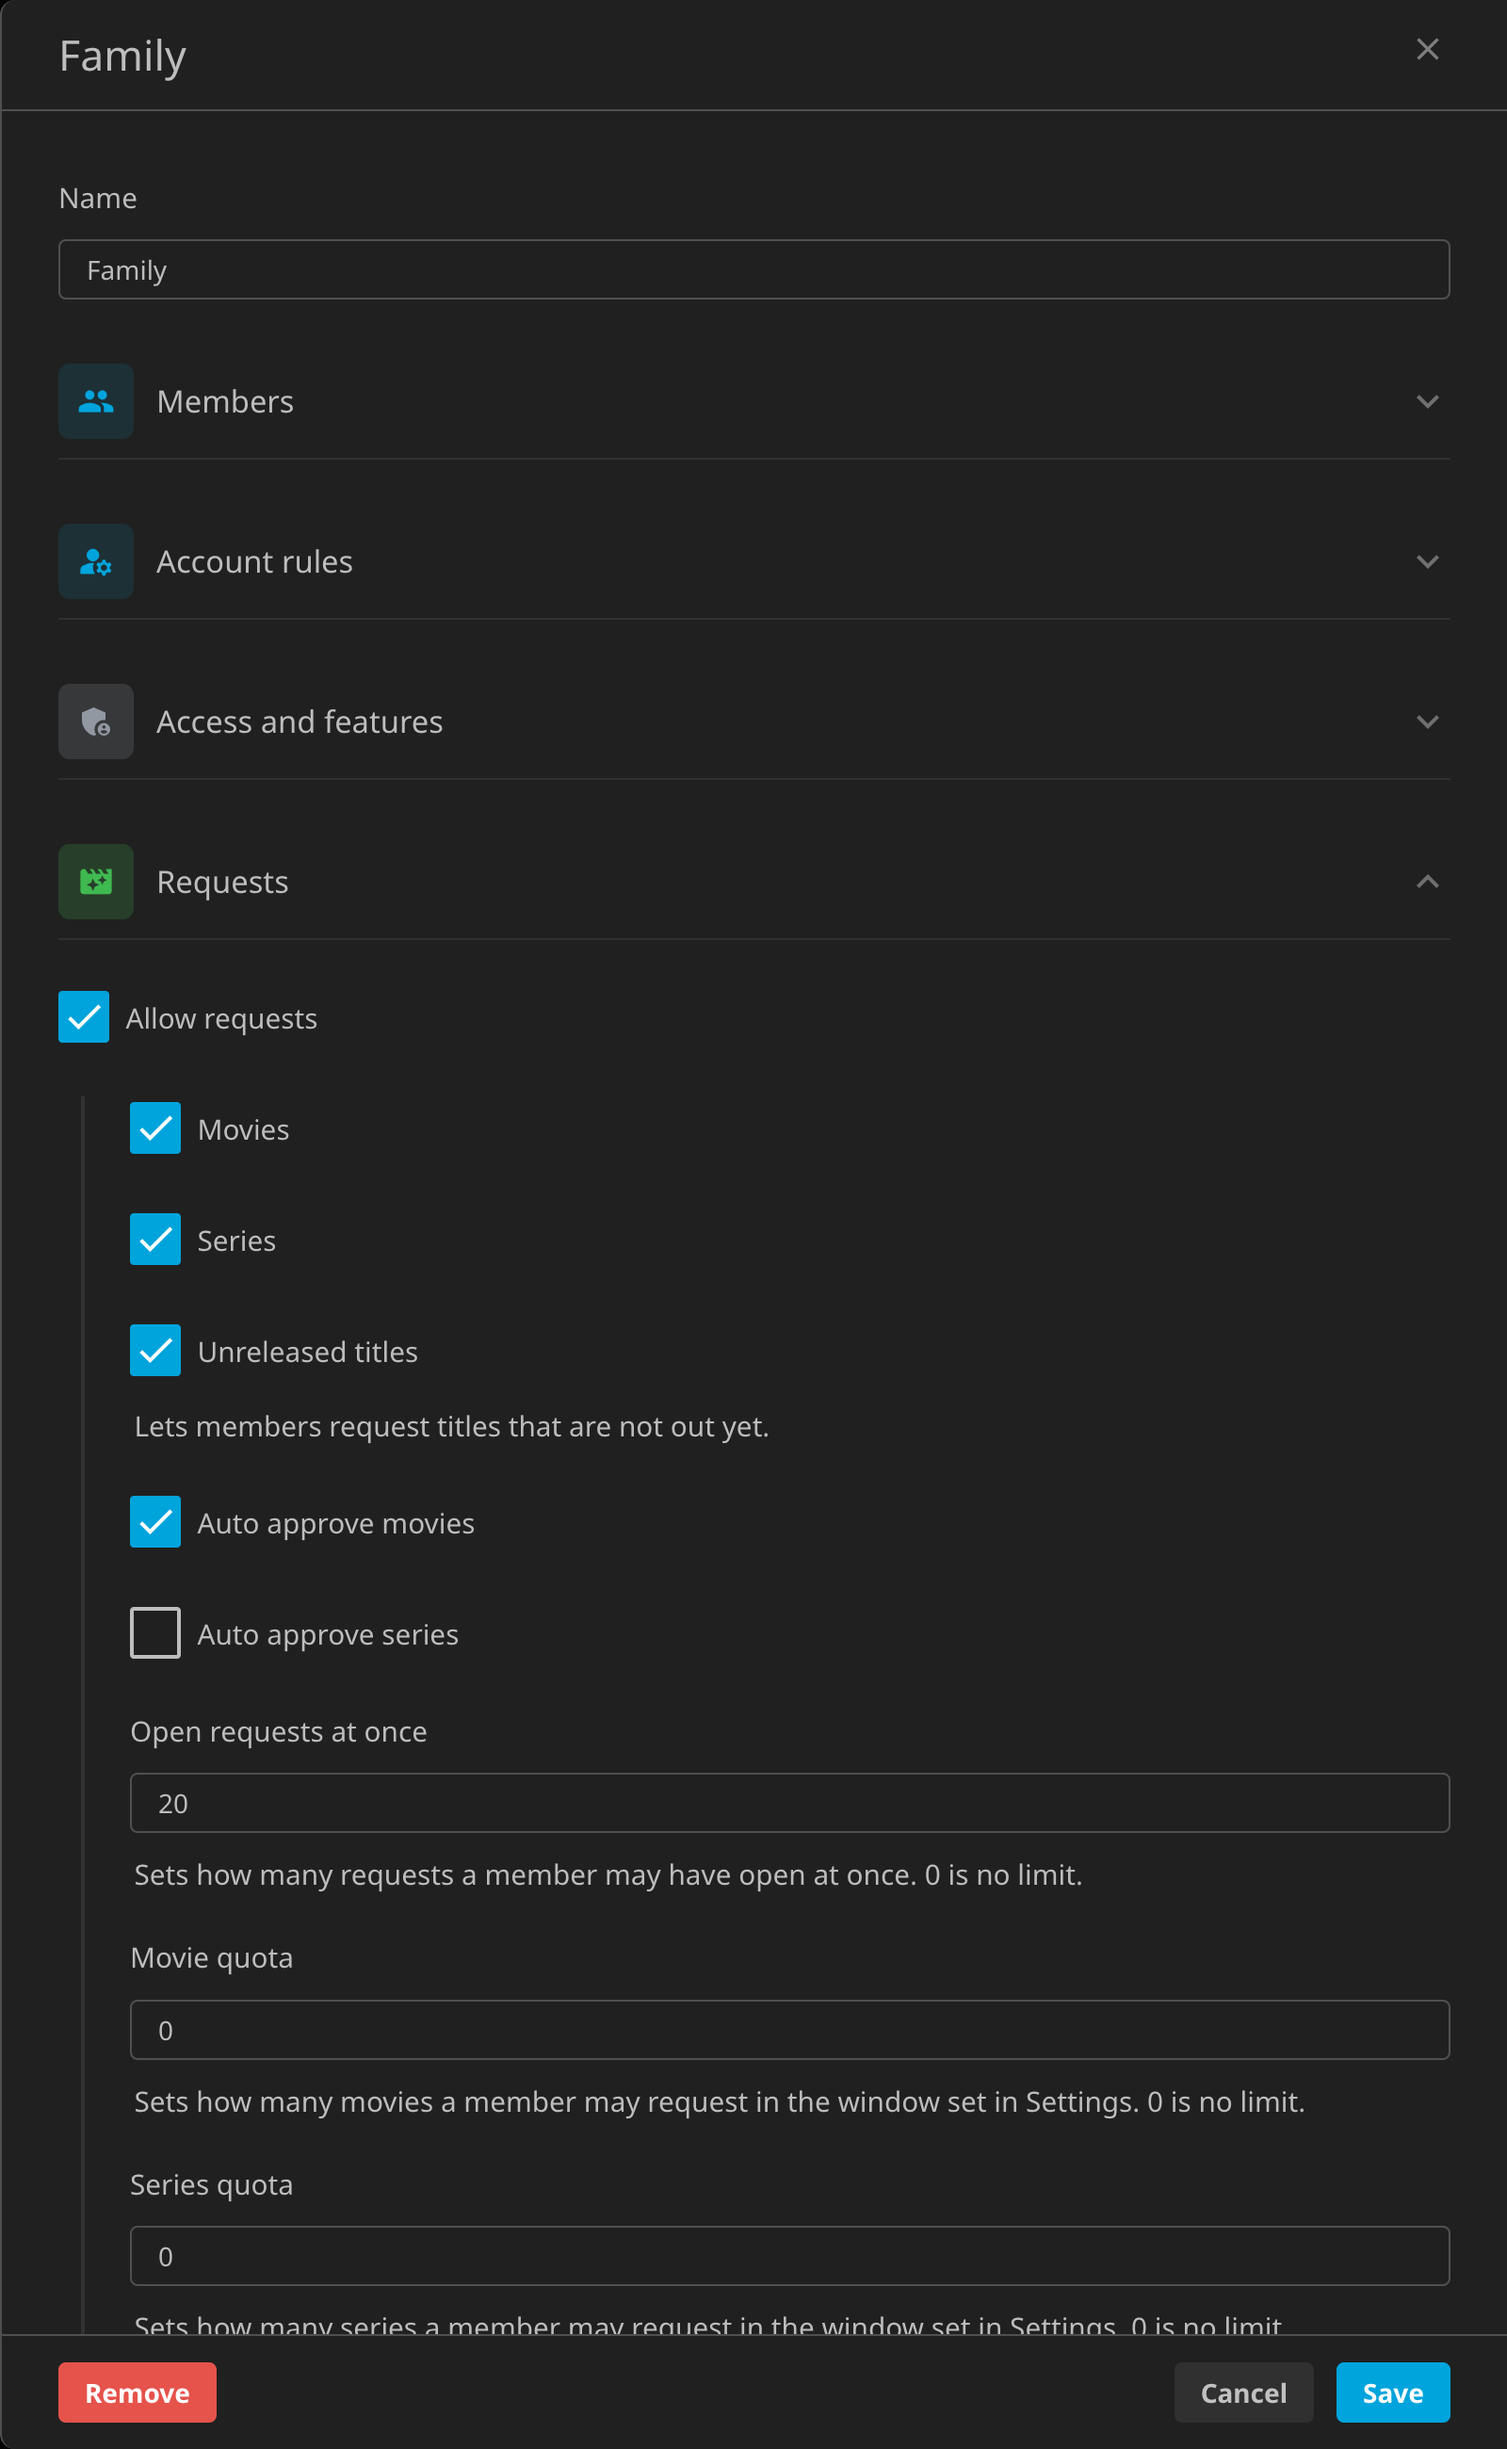
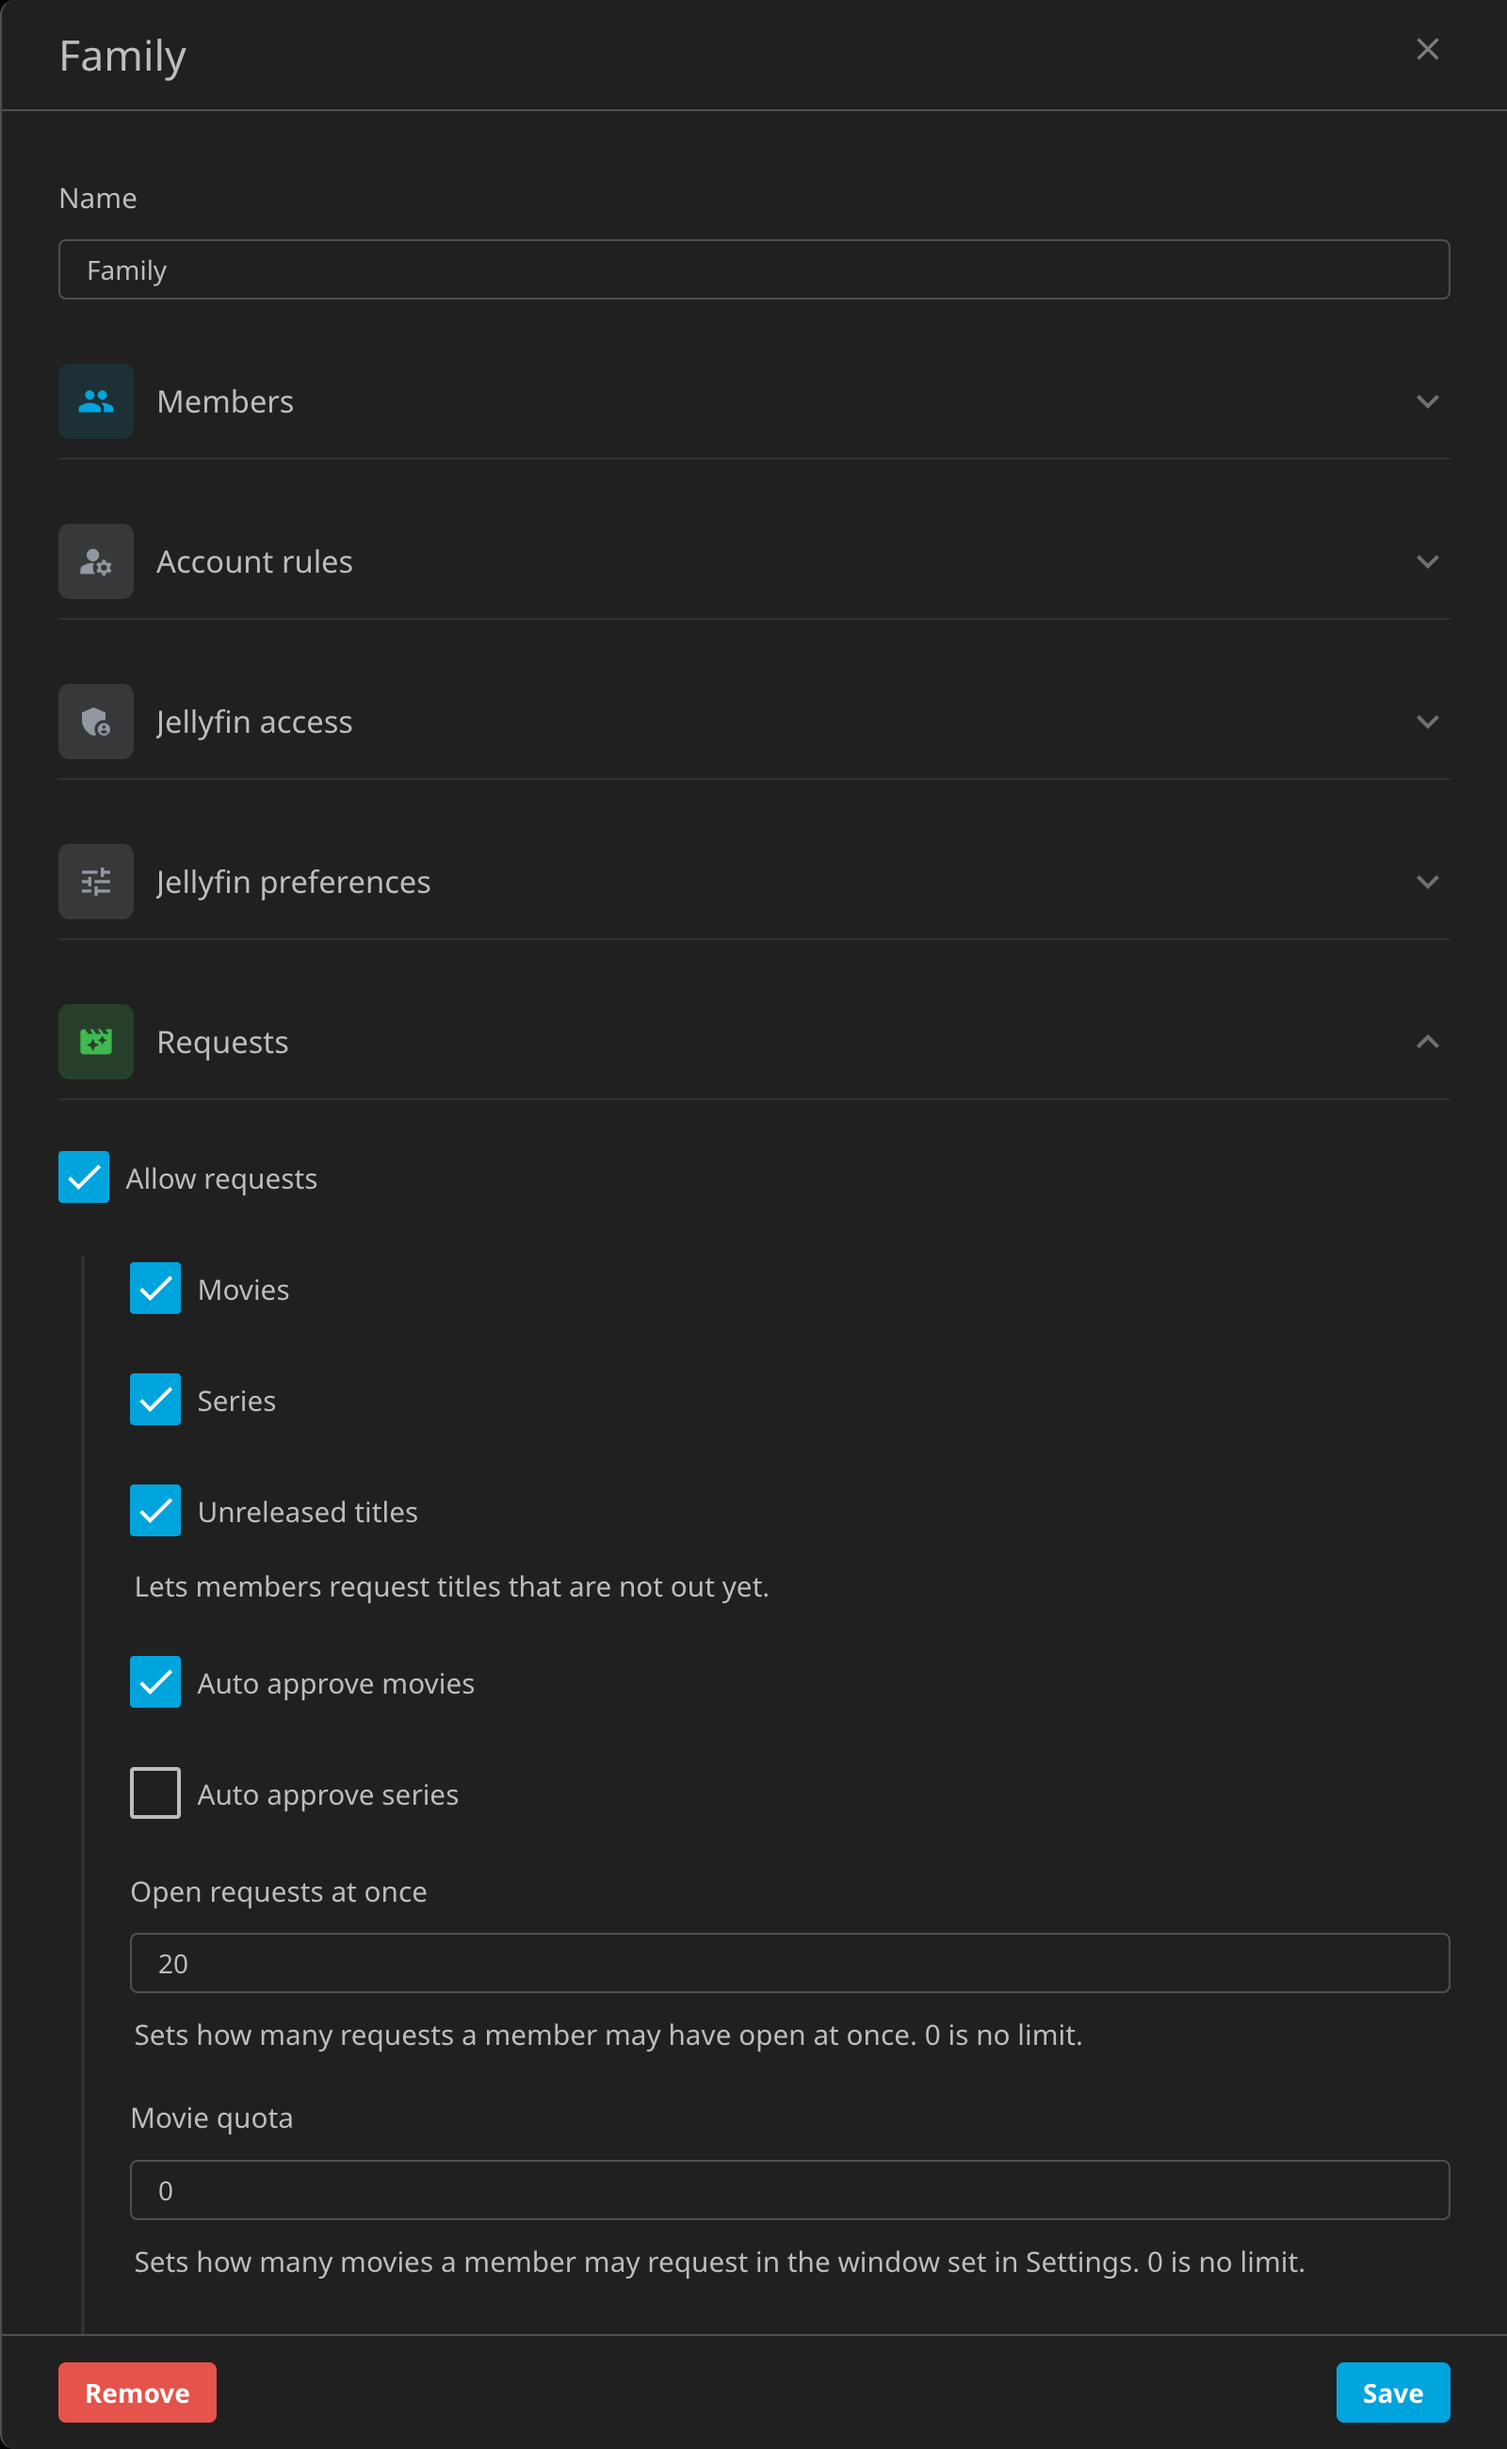
group screenshots and comment tidy

diff --git a/Jellyfin.Plugin.Necto/Web/necto_groups.js b/Jellyfin.Plugin.Necto/Web/necto_groups.js
@@ -1,6 +1,7 @@
 // necto_groups.js
 // The Groups tool. It lists the groups, Everyone first, and opens each in an editor sidecar with its name, its
-// members, and a collapsible section of permissions per tool, with Remove, Cancel, and Save on the shelf.
+// members, its account rules, its Jellyfin access and preferences, and a collapsible section per tool, with Remove
+// and Save on the shelf.
 
 import * as nectoModule from './configurationpage?name=necto_shared.js';
 import * as nectoTemplates from './configurationpage?name=necto_groups_templates.js';

diff --git a/Jellyfin.Plugin.Necto/Services/Policies/PolicyTemplateMerger.cs b/Jellyfin.Plugin.Necto/Services/Policies/PolicyTemplateMerger.cs
@@ -8,8 +8,8 @@ using Siphonophore.Stolon;
 namespace Jellyfin.Plugin.Necto.Services.Policies;
 
 /// <summary>
-/// Works out the Jellyfin settings a user takes. Each row comes from the first of the user's groups, in group order,
-/// that sets it, and a row no group sets is left to the user. A user in no group takes Everyone's.
+/// Works out the Jellyfin settings a user takes from their one group. A row the group does not set is left to the
+/// user, and a user in no group takes Everyone's.
 /// </summary>
 public static class PolicyTemplateMerger
 {

diff --git a/Jellyfin.Plugin.Necto/Services/Policies/PolicyTemplateRows.cs b/Jellyfin.Plugin.Necto/Services/Policies/PolicyTemplateRows.cs
@@ -46,7 +46,7 @@ public static class PolicyTemplateRows
     /// Builds one template from several, taking each row from the first template that sets it, and the preferences mode
     /// from the first.
     /// </summary>
-    /// <param name="templates">The templates, in group order.</param>
+    /// <param name="templates">The templates, the one that wins first.</param>
     /// <returns>A new template with every row some template sets.</returns>
     public static PolicyTemplate Merge(IEnumerable<PolicyTemplate> templates)
     {

diff --git a/Jellyfin.Plugin.Necto/Services/Groups/GroupNormalizer.cs b/Jellyfin.Plugin.Necto/Services/Groups/GroupNormalizer.cs
@@ -74,7 +74,7 @@ public static class GroupNormalizer
             group.MemberIds.RemoveAll(id => admins.Contains(id) || (known is not null && !known.Contains(id)));
         }
 
-        // A user is in one group at most. A stored user in several keeps the first in group order.
+        // A user is in one group at most. A stored user in several keeps the first in the list.
         var placed = new Dictionary<Guid, Group>();
         foreach (var group in config.Groups)
         {

diff --git a/Jellyfin.Plugin.Necto/Configuration/Groups/Group.cs b/Jellyfin.Plugin.Necto/Configuration/Groups/Group.cs
@@ -4,7 +4,7 @@ using System.Collections.Generic;
 namespace Jellyfin.Plugin.Necto.Configuration.Groups;
 
 /// <summary>
-/// A named set of Jellyfin users and the permissions they share. A user may be in several groups, and a user in none
+/// A named set of Jellyfin users and the permissions they share. A user is in one group at most, and a user in none
 /// takes the Everyone group.
 /// </summary>
 public class Group

diff --git a/Jellyfin.Plugin.Necto/Configuration/Policies/PolicyTemplate.cs b/Jellyfin.Plugin.Necto/Configuration/Policies/PolicyTemplate.cs
@@ -2,7 +2,7 @@ namespace Jellyfin.Plugin.Necto.Configuration.Policies;
 
 /// <summary>
 /// The Jellyfin policy and preferences a group writes onto its members. Each row is set by the group or left to the
-/// member, and a member of several groups takes each row from the first group, in group order, that sets it.
+/// member.
 /// </summary>
 public class PolicyTemplate
 {
